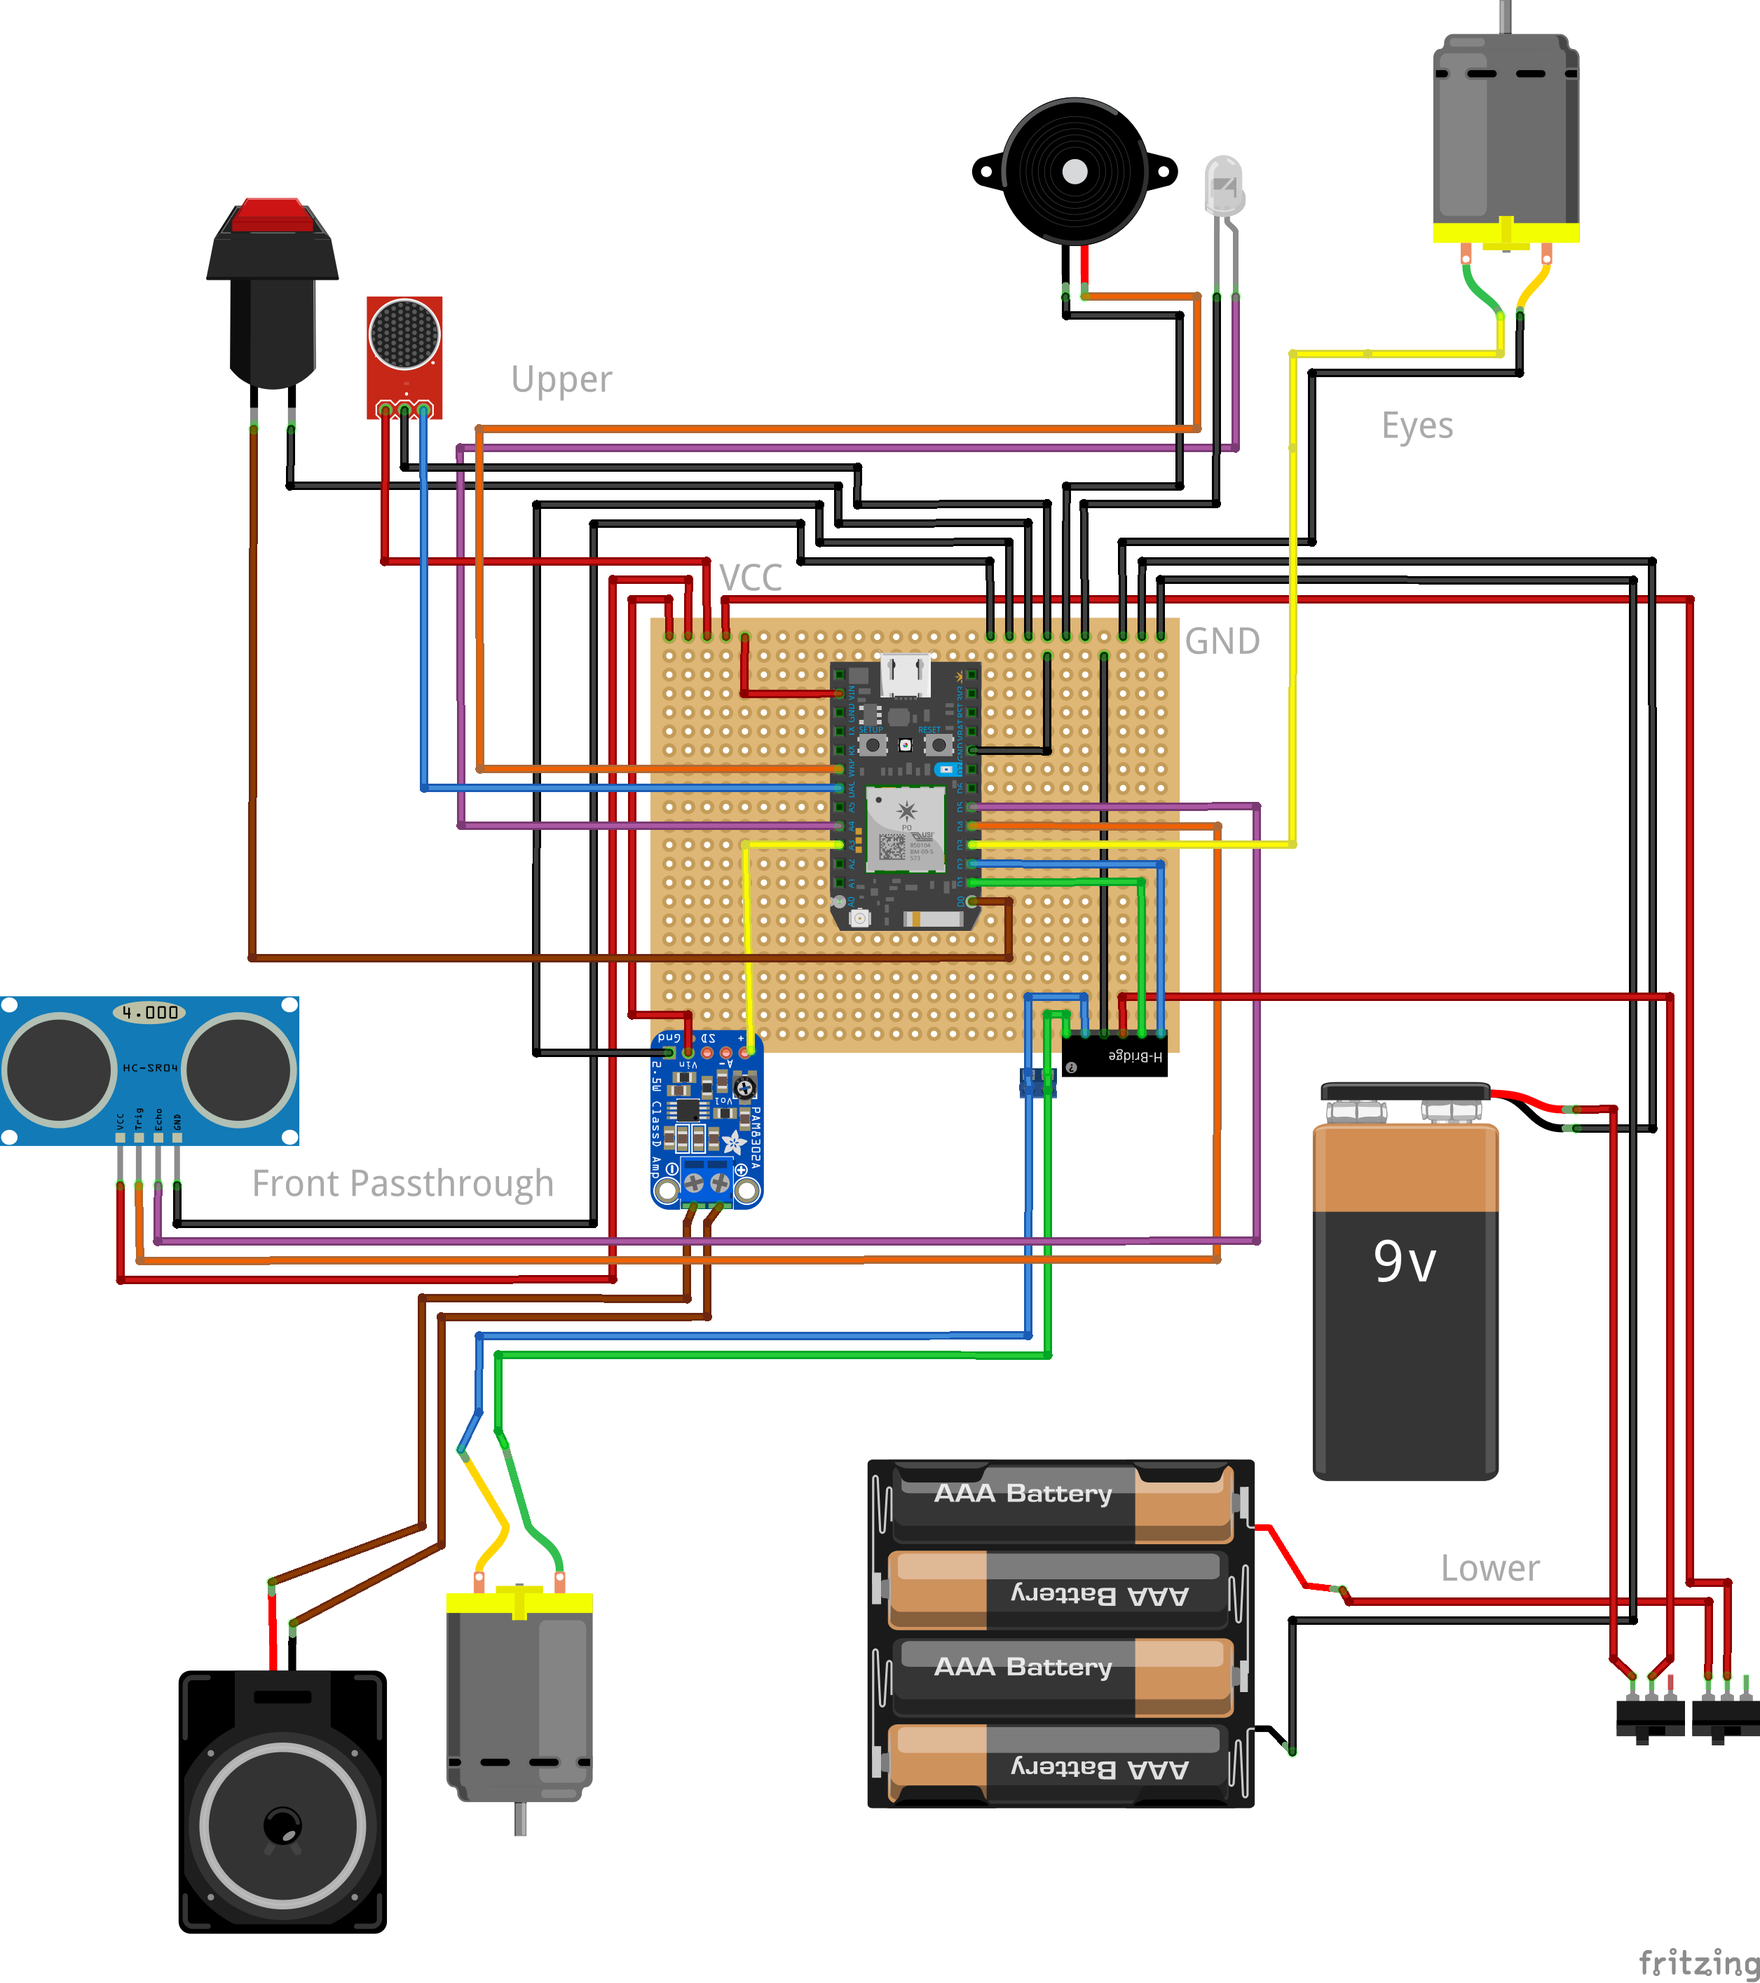
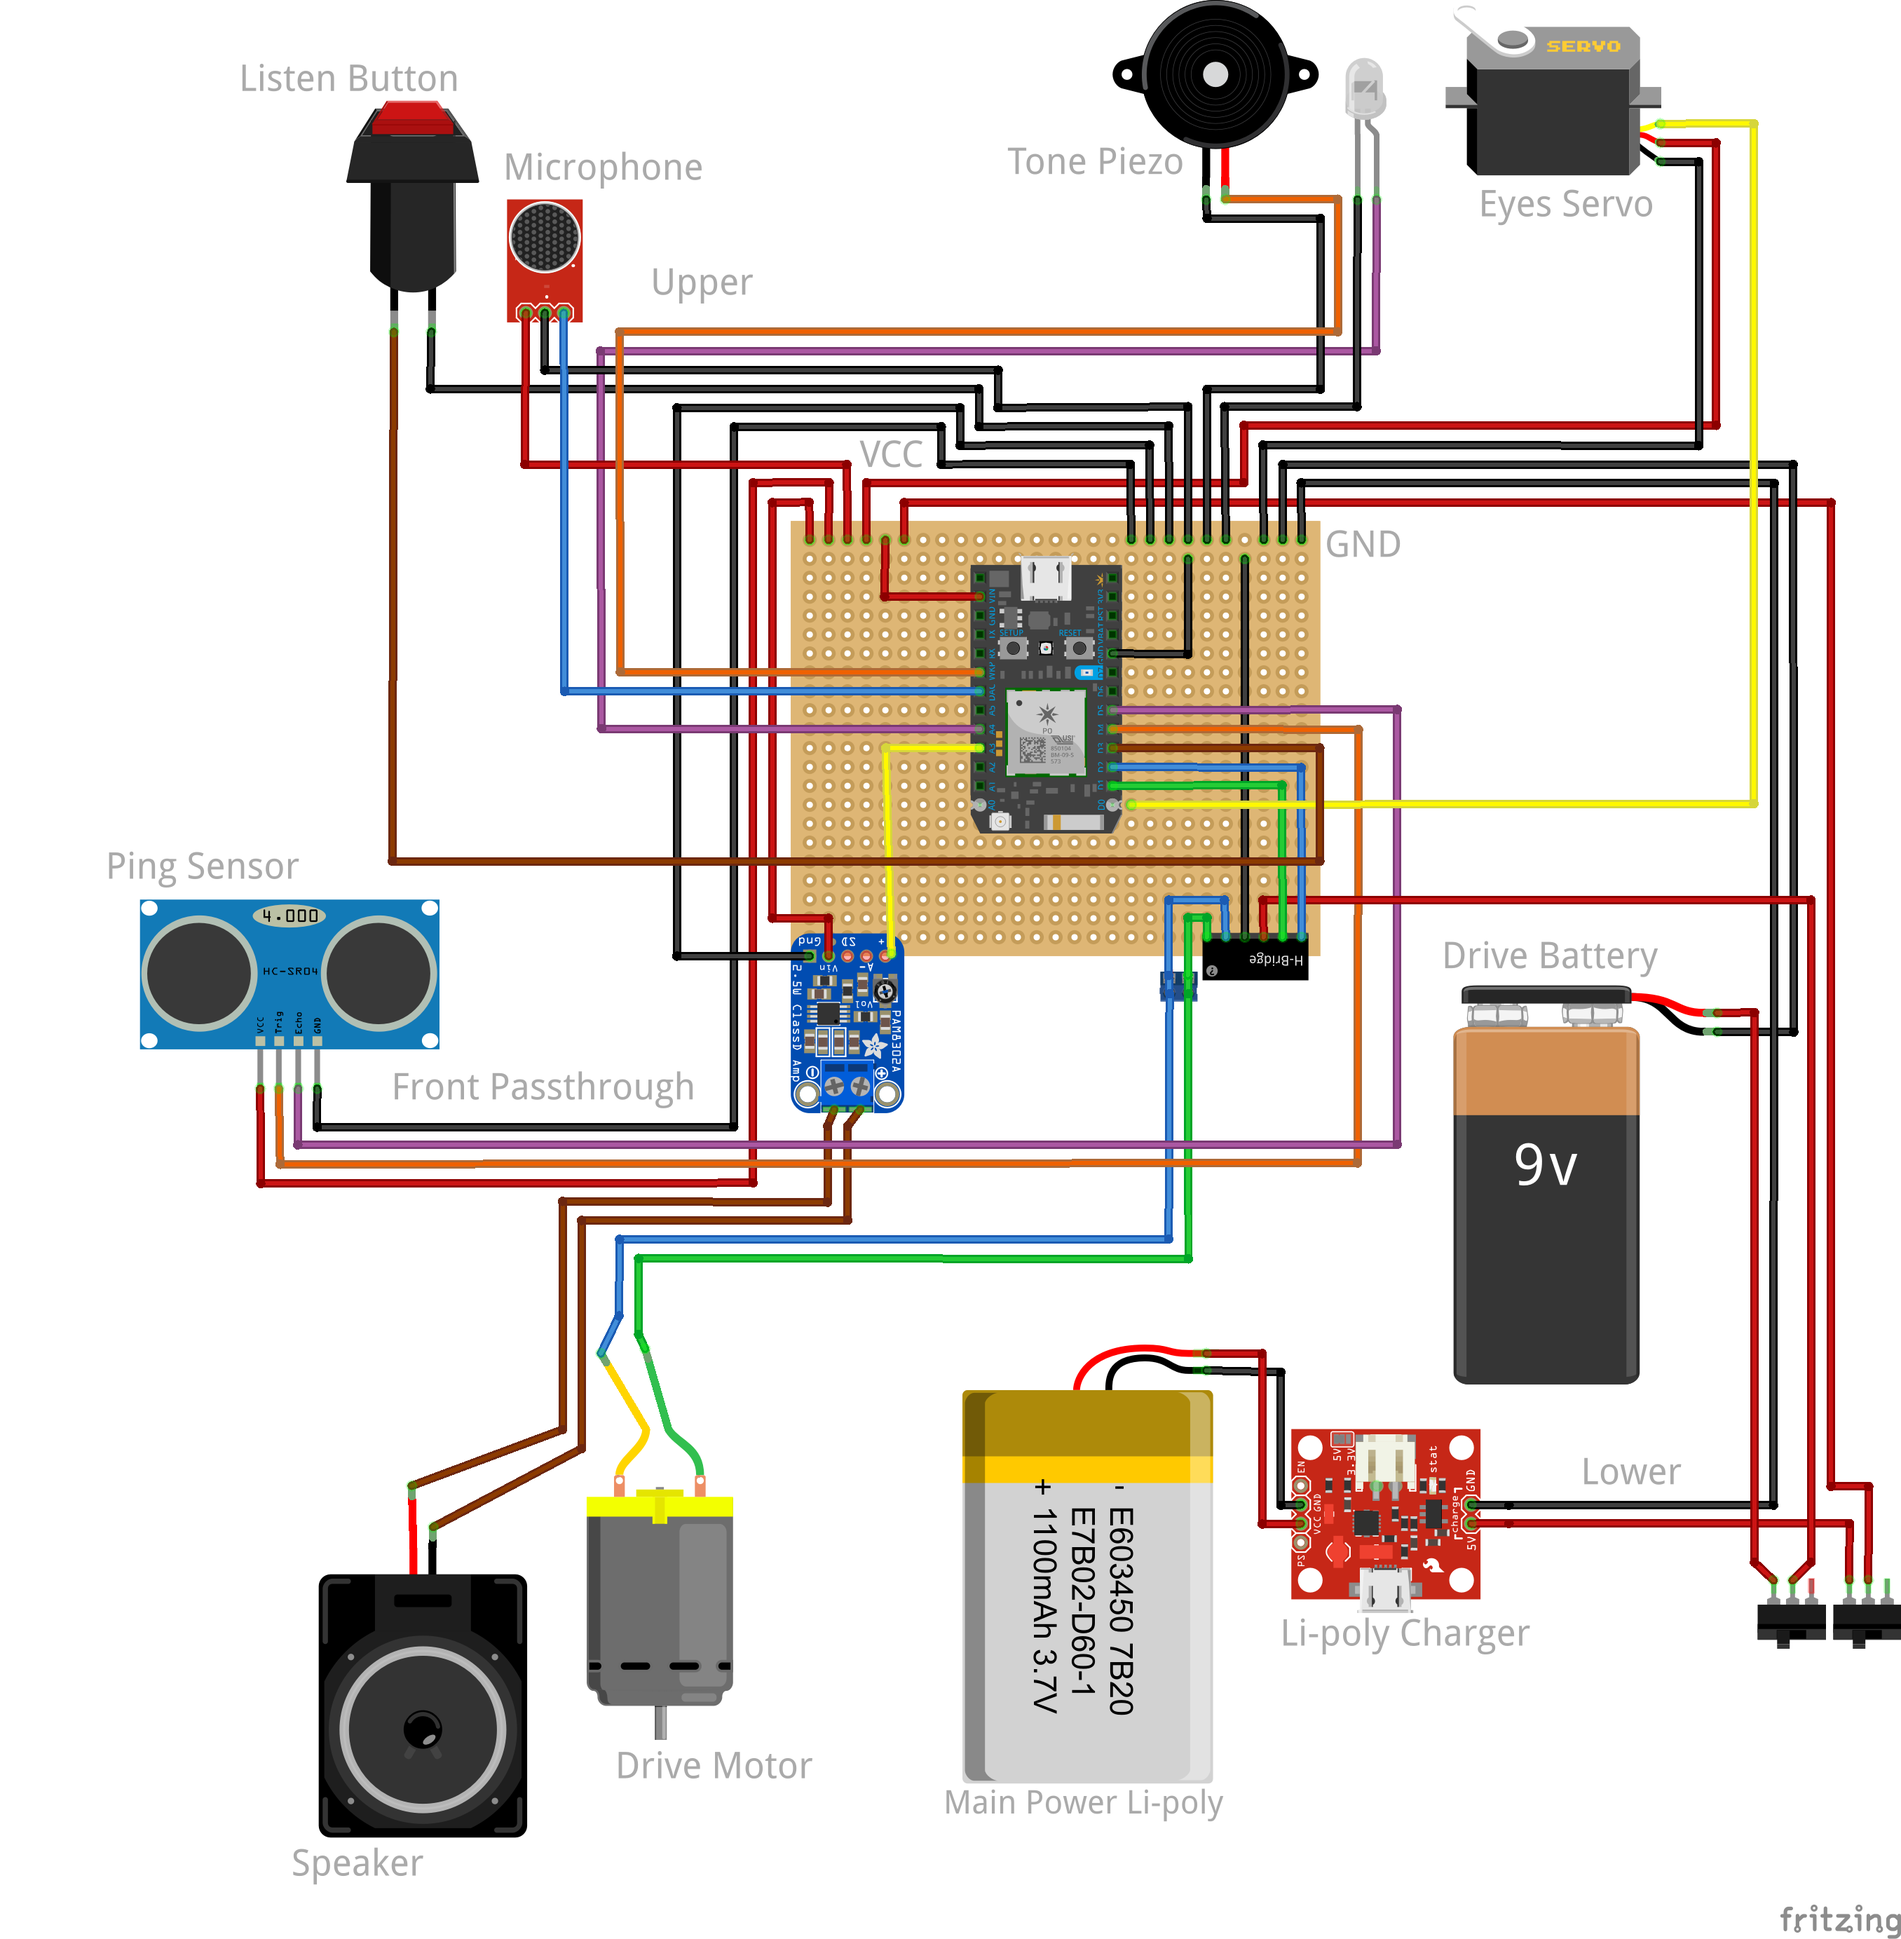
labeled updated components and schematics

diff --git a/schematic/components.md b/schematic/components.md
@@ -1,17 +1,18 @@
 # Chat Robot Components
 
 ### Button
-* D0
+* D3
 * GND
 
 ### Motor
-* D1 (rev)
-* D2 (fwd)
+* D1 (fwd)
+* D2 (rev)
 * GND
 * 9V
 
-### Eyes Motor 
-* D3
+### Eyes Continuous Servo 
+* D0
+* VCC
 * GND
 
 ### Ping Sensor
